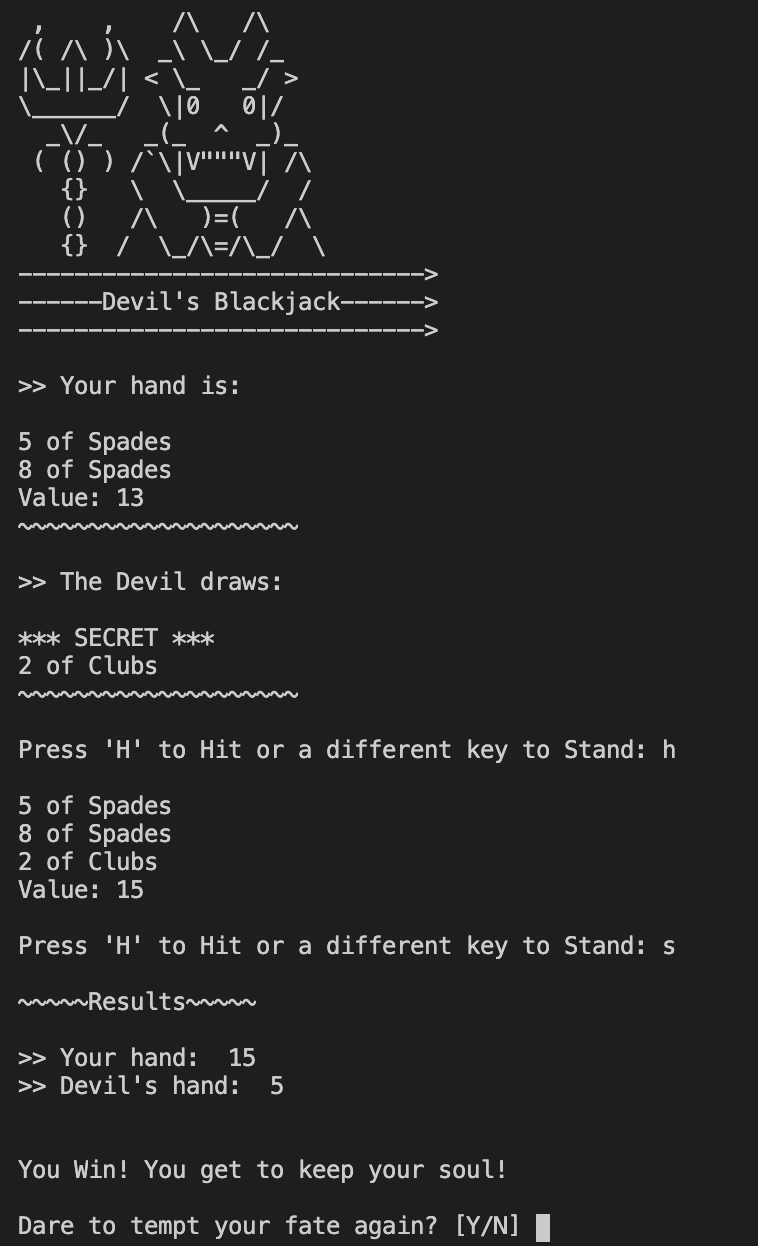
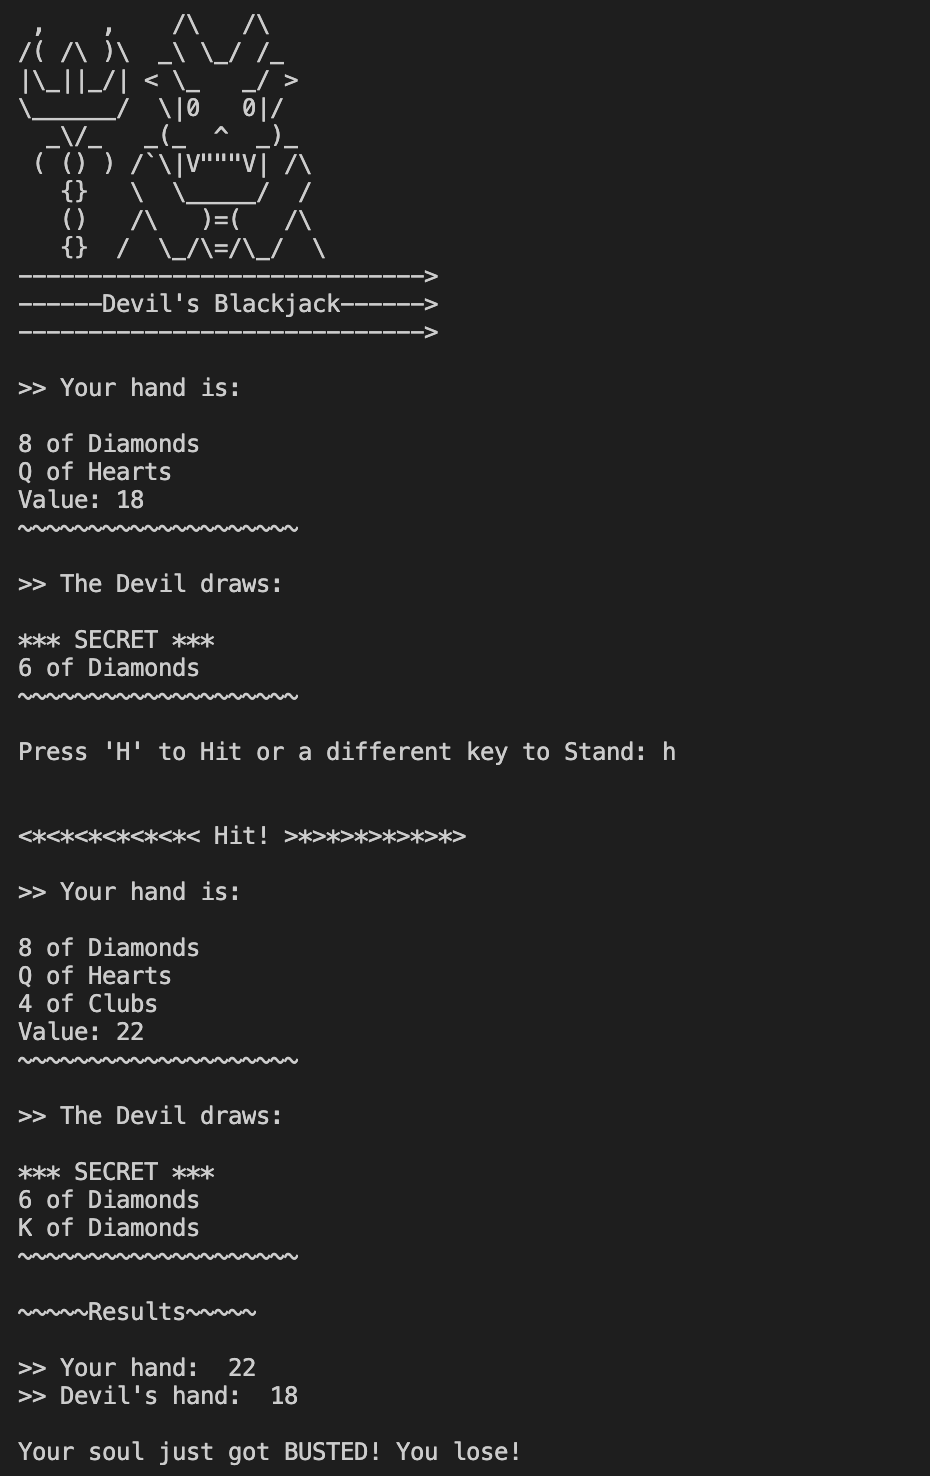
updated screenshot

diff --git a/game.py b/game.py
@@ -37,7 +37,7 @@ class Game:
     print()
 
     if choice == 'h':
-      print("\n<<<<<<< Hit! >>>>>>>>\n")
+      print("\n<*<*<*<*<*<*< Hit! >*>*>*>*>*>*>\n")
       self.player_hand.add_card(self.deck.deal())
       
       if self.devil_hand.get_value() < 17:

diff --git a/README.md b/README.md
@@ -5,4 +5,4 @@ Play against the Devil in this simple command line blackjack game.
 
 Make sure you don't lose your soul along the way!
 
-![SS](/ScreenShot.png)
+![SS](/Screenshot.png)
